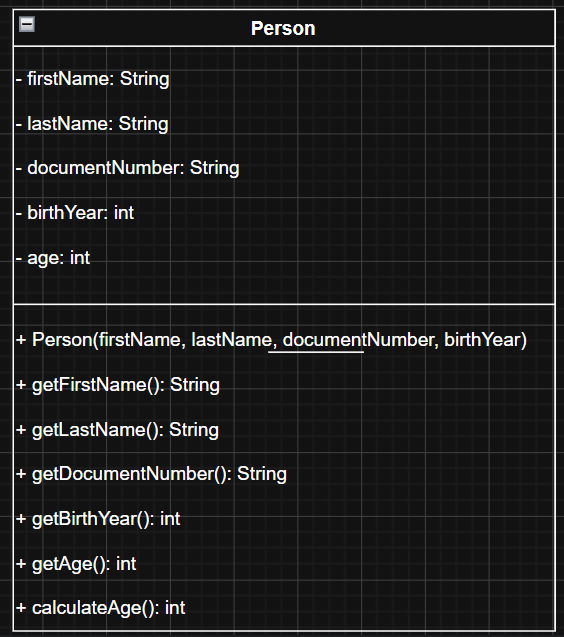
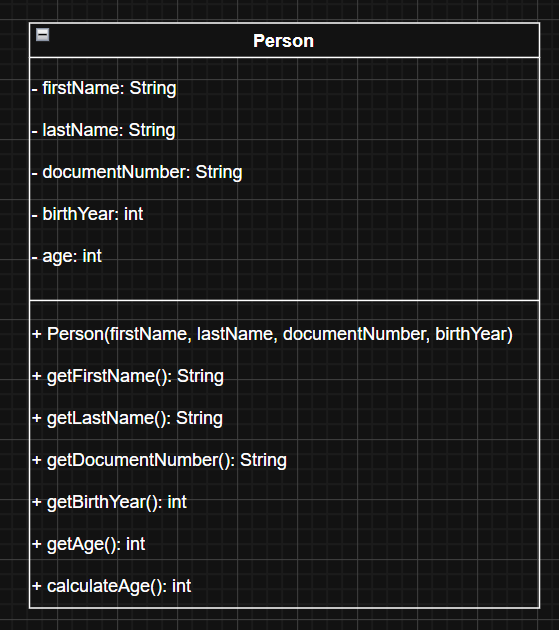
docs: add complete README with project description, structure and screenshots

diff --git a/README.md b/README.md
@@ -1,2 +1,73 @@
-# Mi-primer-modelo-Java
-Modelado de la entidad Persona con Maven y tests unitarios JUnit 5
+# Mi Primer Modelo Java
+
+## 📝 Descripción
+
+Proyecto Java desarrollado como parte de una kata de programación orientada a objetos. El objetivo es modelar la entidad **Persona** aplicando los conceptos fundamentales de Java: clases, atributos, constructores, métodos y encapsulación.
+
+La clase `Person` representa a una persona con sus datos básicos de identificación y un método que calcula su edad dinámicamente en función del año de nacimiento y el año actual. Los atributos son privados y accesibles únicamente a través de getters, siguiendo el principio de encapsulación.
+
+El proyecto está construido con **Maven** como gestor de dependencias y herramienta de construcción, e incluye una suite de tests unitarios con **JUnit 5** que garantizan el correcto funcionamiento de la clase, alcanzando una cobertura del 100% medida con **JaCoCo**.
+
+## 💻 Tecnologías utilizadas
+
+- Java 21
+- Maven
+- JUnit Jupiter 5.14.4
+- JaCoCo 0.8.12
+
+## 📁 Estructura del proyecto
+
+```
+├── assets/
+├── src/
+│   ├── main/
+│   │   └── java/
+│   │       └── dev/javaproject/person/
+│   │           └── Person.java
+│   └── test/
+│       └── java/
+│           └── dev/javaproject/person/
+│               └── PersonTest.java
+├── .gitignore
+├── pom.xml
+└── README.md
+```
+
+## 👤 Modelo
+
+La clase `Person` representa a una persona con los siguientes atributos:
+
+| Atributo | Tipo | Descripción |
+|---|---|---|
+| firstName | String | Nombre |
+| lastName | String | Apellido |
+| documentNumber | String | Número de documento de identidad |
+| birthYear | int | Año de nacimiento |
+| age | int | Edad calculada |
+
+### Método principal
+
+`calculateAge()` — calcula la edad de la persona en función del año actual y su año de nacimiento, y la almacena en el atributo `age`.
+
+## ✅ Tests
+
+El proyecto incluye tests unitarios con **JUnit 5** que cubren:
+
+- Inicialización correcta de atributos mediante el constructor
+- Cálculo de edad con distintos años de nacimiento
+
+## 📷 Capturas
+
+### Tests 
+
+![Tests](assets/tests.png)
+
+![Tests y cobertura VS Code](assets/tests-coverage.png)
+
+### Cobertura JaCoCo
+
+![Cobertura HTML](assets/tests-coverage-html.png)
+
+### Diagrama de clases
+
+![Diagrama de clases](assets/diagrama-de-clases.png)
